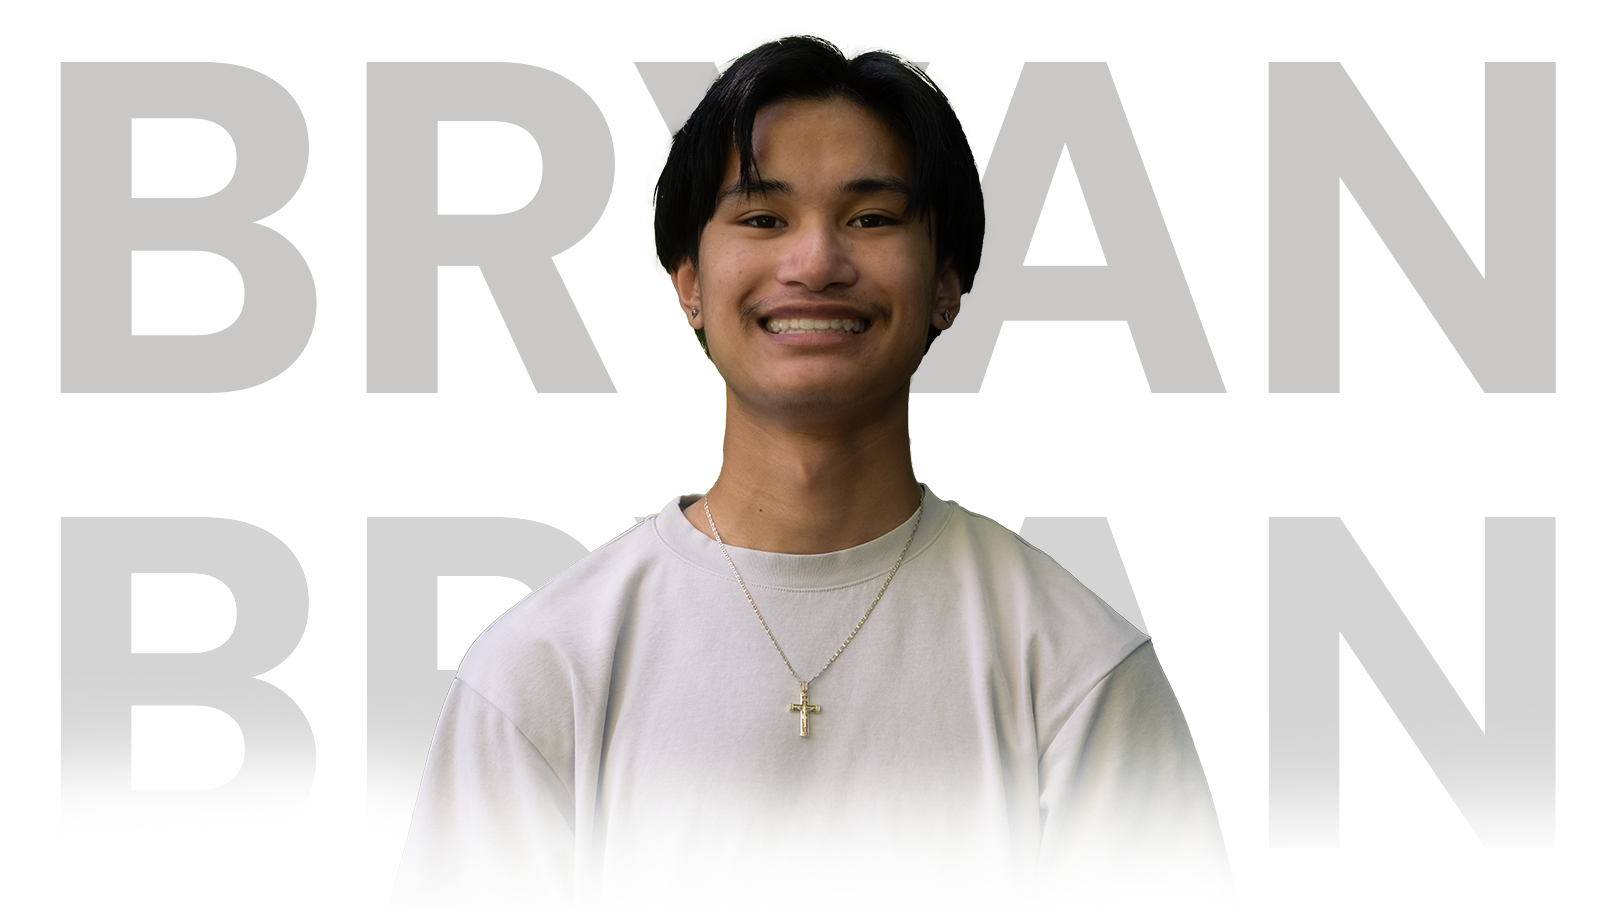
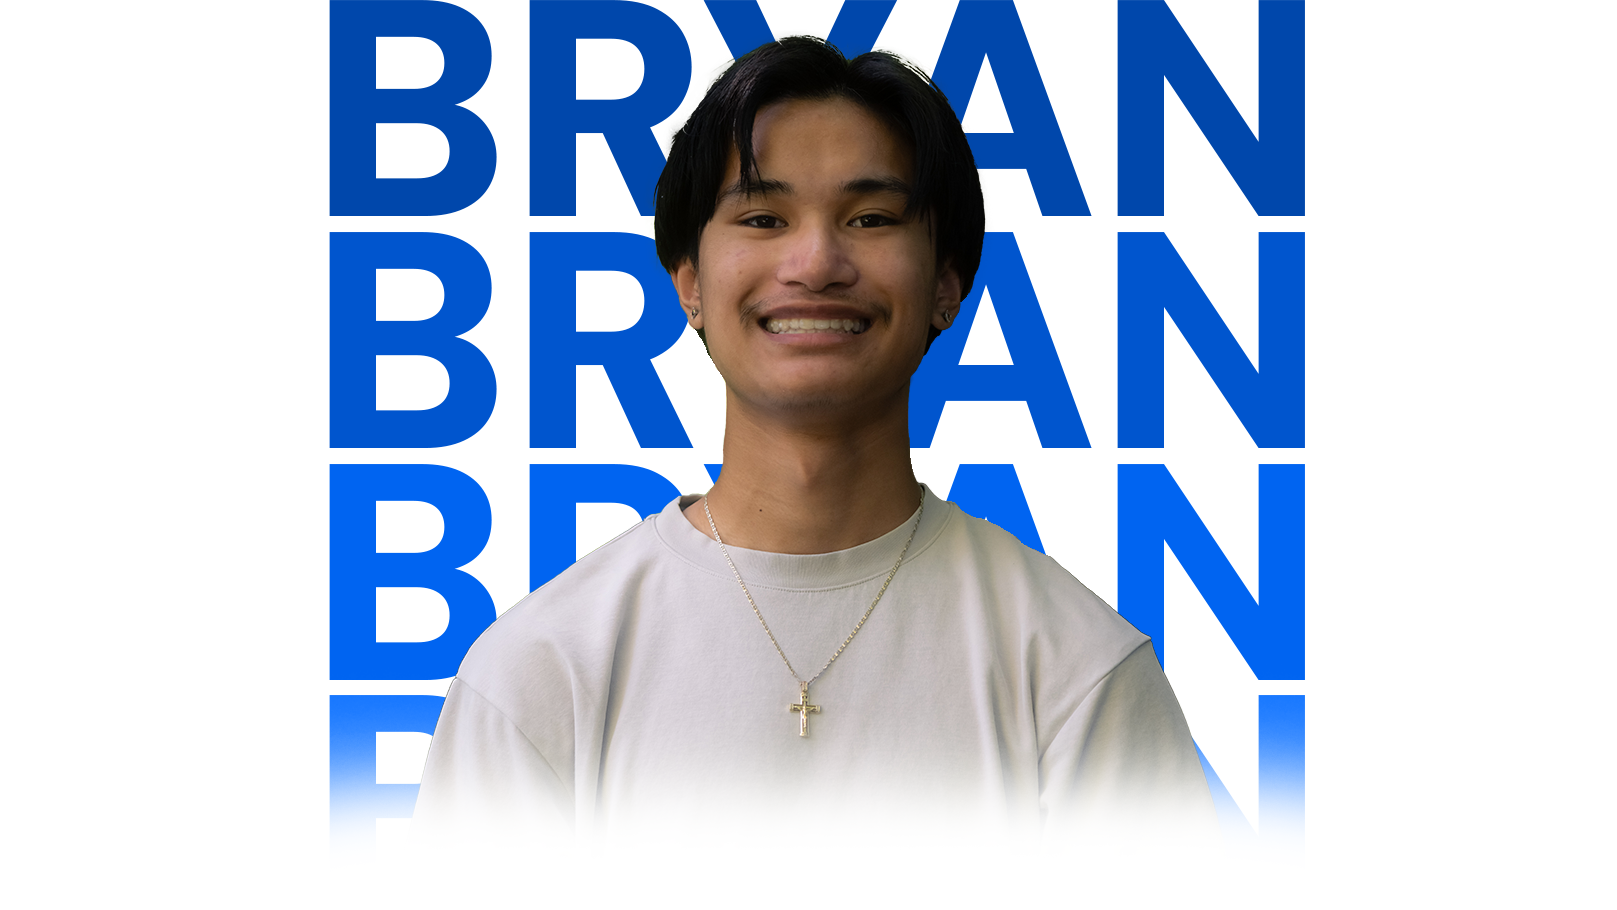
commit

diff --git a/index.html b/index.html
@@ -11,12 +11,15 @@
     <body>
         <header>
             <a href="index.html">
-                <img id= "logo" src="img/logo.png" alt="">
+              
+                <img id="logo" src="img/logo.png" alt="">
+             
+
                 </a>
             <nav>
         <a href="index.html">Home</a>
         <a href="inspiration/inspiration.html">Inspiration</a>
-        <a href="topfive/topfive.html">Top five</a>
+        <a href="topfive/topfive.html">Top Five</a>
             </nav>
            
         </header>
@@ -24,7 +27,7 @@
         <br>
         <br>
         <br>
-        <img id="hero" src="img/brybry.png" alt="">
+        <img id="hero" src="img/hero.gif" alt="">
        
 
     
@@ -33,21 +36,26 @@
         <div class="text">
         <h3> Hi! I'm Bryan. A Visual Communication Design student at San Francisco State University!</h3>
             <h4>I first got into design when I took a digital media arts class my first year in middle school. 
-            
+         
              I eventually followed that intrest all the way through high school. </h4>
         
             <p>
               I enjoy making people smile and laugh! But, at the same time I am very shy.
-              <br>
+           
               I like to play video games in my free time. I also do a little bit of photography
-              <br>
-               but it is more for memory capturing. Growing up I have always played sports and really enjoy watching it.
-              I love watching Baseball, Basketball, and Football. Another fun fact about me is I love dogs. This is crazy to me because I was terrified when my uncle's dogs would run toward me. I also love birds and enjoy watching funny videos of them on instagram.
+             
+               but it is more for memory capturing. Growing up I have always played sports 
+              
+               and really enjoy watching it. I love watching Baseball, Basketball, and Football. 
+            
+               Another fun fact about me is I love dogs. This is crazy to me because I was terrified when my uncle's dogs would run toward me. I also love birds and enjoy watching funny videos of them on instagram.
              </p>
 </div>
     </div>
 
+
         <footer>
+        
 <a href="mailto: bcarabbacan@sfsu.edu">Send me an Email</a>
 
         </footer>

diff --git a/css/style.css b/css/style.css
@@ -3,8 +3,8 @@
 body {
 
     text-decoration: none;
-    background-color:#D9D9D9;
-    color: #302824;
+    background-color: #F2F0EF;
+    color: #000000;
     font-family: "DM Sans", sans-serif;
     font-weight: 400;
     font-style: normal;
@@ -12,13 +12,18 @@ body {
 
 a {
     text-decoration: none;
-    color: #302824;
-      text-transform: uppercase;
-      font-weight: 600;
+      /* text-transform: ; */
+      font-weight: 300;
+      color: #000;
       padding: 10px;
       /* background-color: red; */
 }
 
+a:hover {
+ color: #0047AB;
+}
+
+/* code from: https://www.w3schools.com/cssref/sel_hover.php */
 .aboutMe {
     display: flex;
     flex-direction: row; 
@@ -33,17 +38,22 @@ a {
 header {
 display: flex;
 flex-direction: row;
+flex-wrap: nowrap;
 align-items: center;
-}
+width: 100%;
 
+}
 
 h1 {
     text-transform: uppercase;
-    font-family: darkmode-on, sans-serif;
     font-weight: 900;
     font-style: normal;
     text-align: center;
    
+}
+
+p {
+  color: #000000;
 }
 #pfp {
     width: 25%;
@@ -62,8 +72,8 @@ display: block;
 /* code from: https://www.w3schools.com/howto/howto_css_image_center.asp */
 
 #logo {
-  width: 70%;
-  padding-left: 25%;
+
+  padding-left: 5%;
 }
 
 
